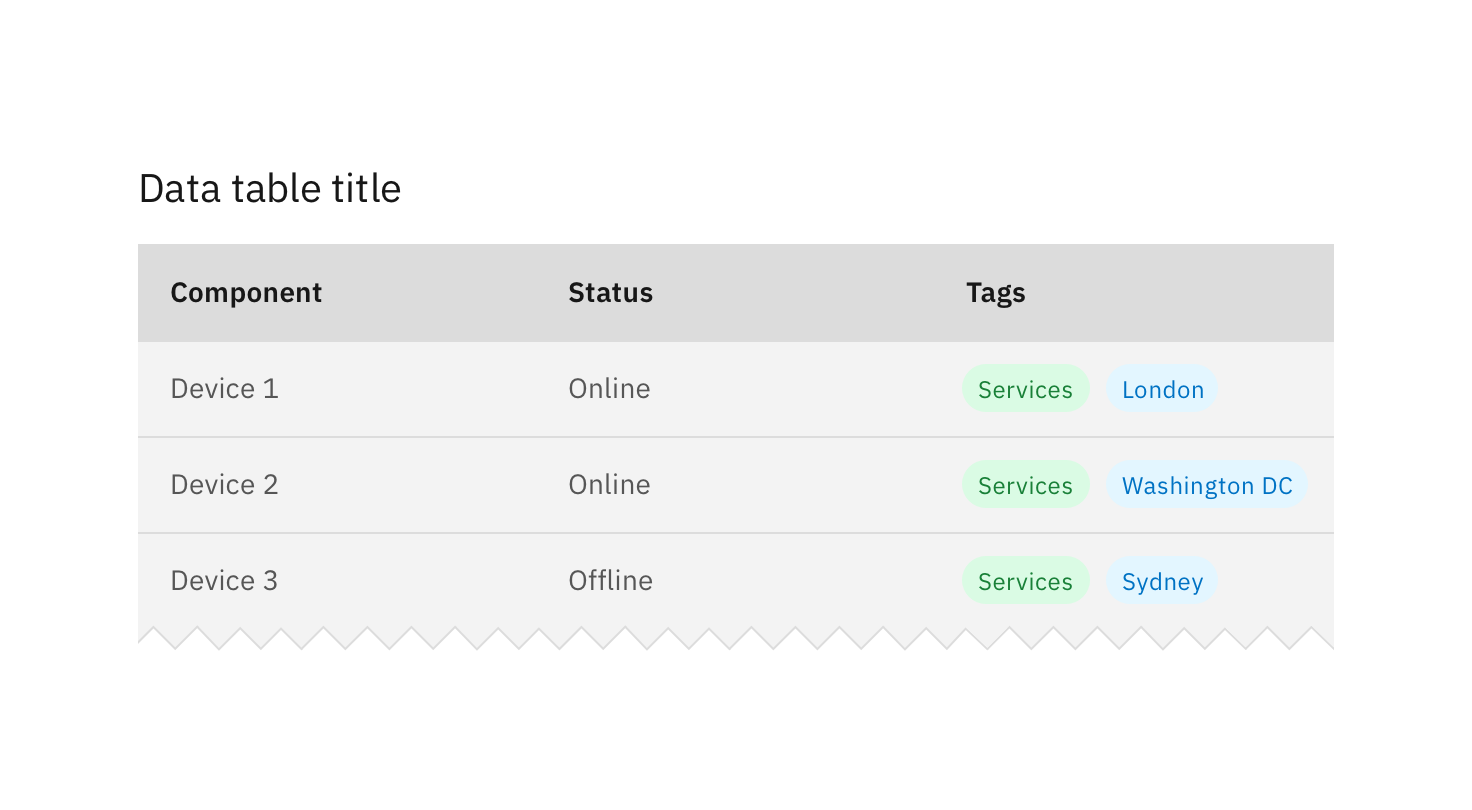
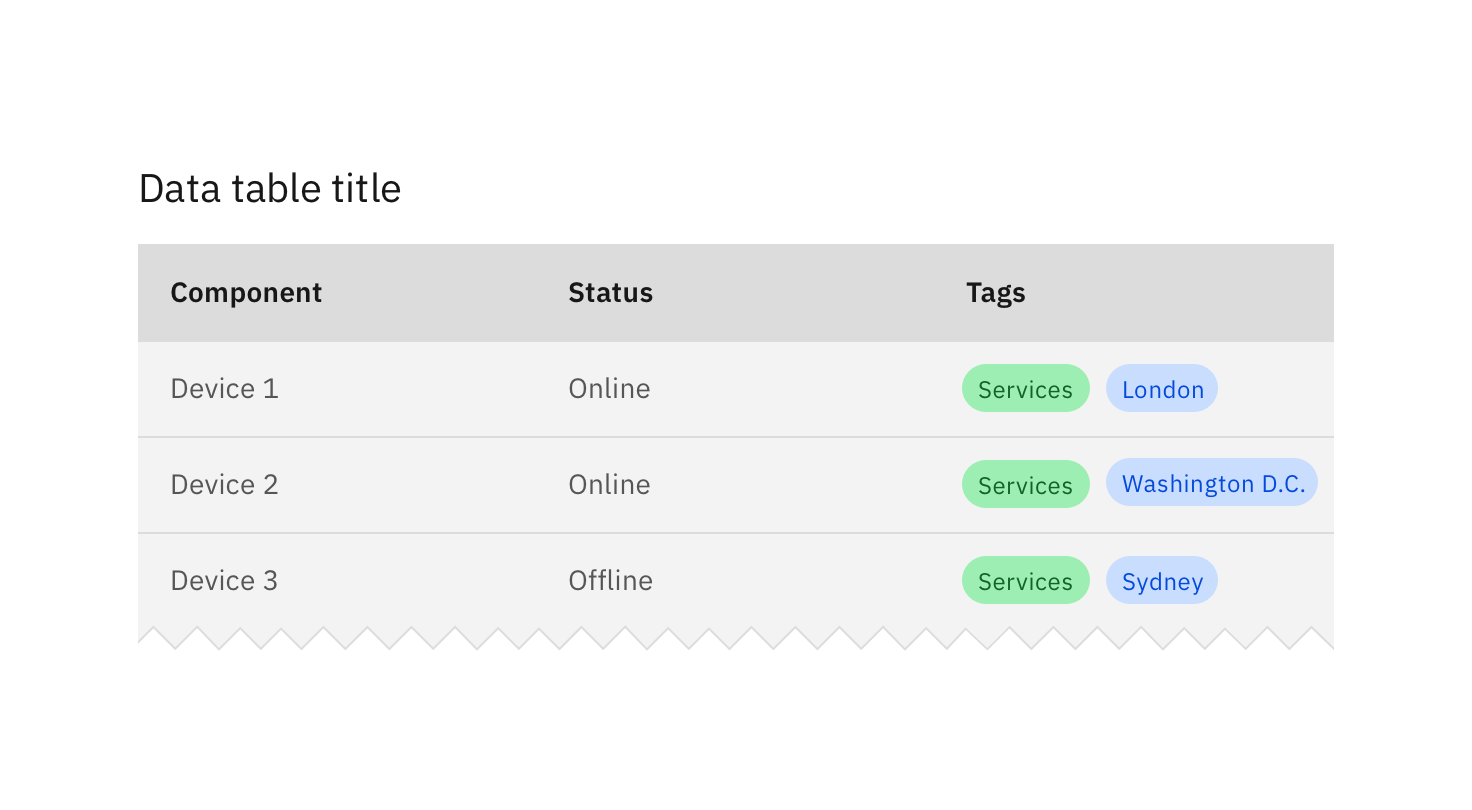
updated tag images on style/usage

Changed region(s): [[0.6562, 0.5556, 0.9062, 0.6481], [0.6562, 0.4321, 0.8438, 0.5247], [0.6562, 0.679, 0.8438, 0.7716]]

diff --git a/src/content/components/tag/usage.md b/src/content/components/tag/usage.md
@@ -12,4 +12,17 @@ Multiple or single tags can be used to categorize items.
 
 Use tags when content is mapped to multiple categories, and the user needs a way to differentiate between them.
 
+<image-component cols="8">
+
+![Example of tags in a data table.](images/tag-usage-2.png)
+
+</image-component>
+
+
 Tags can also be used as a method of filtering data, to show only items within that particular category.
+
+<image-component cols="8">
+
+![Example of tags in search.](images/tag-usage-1.png)
+
+</image-component>
